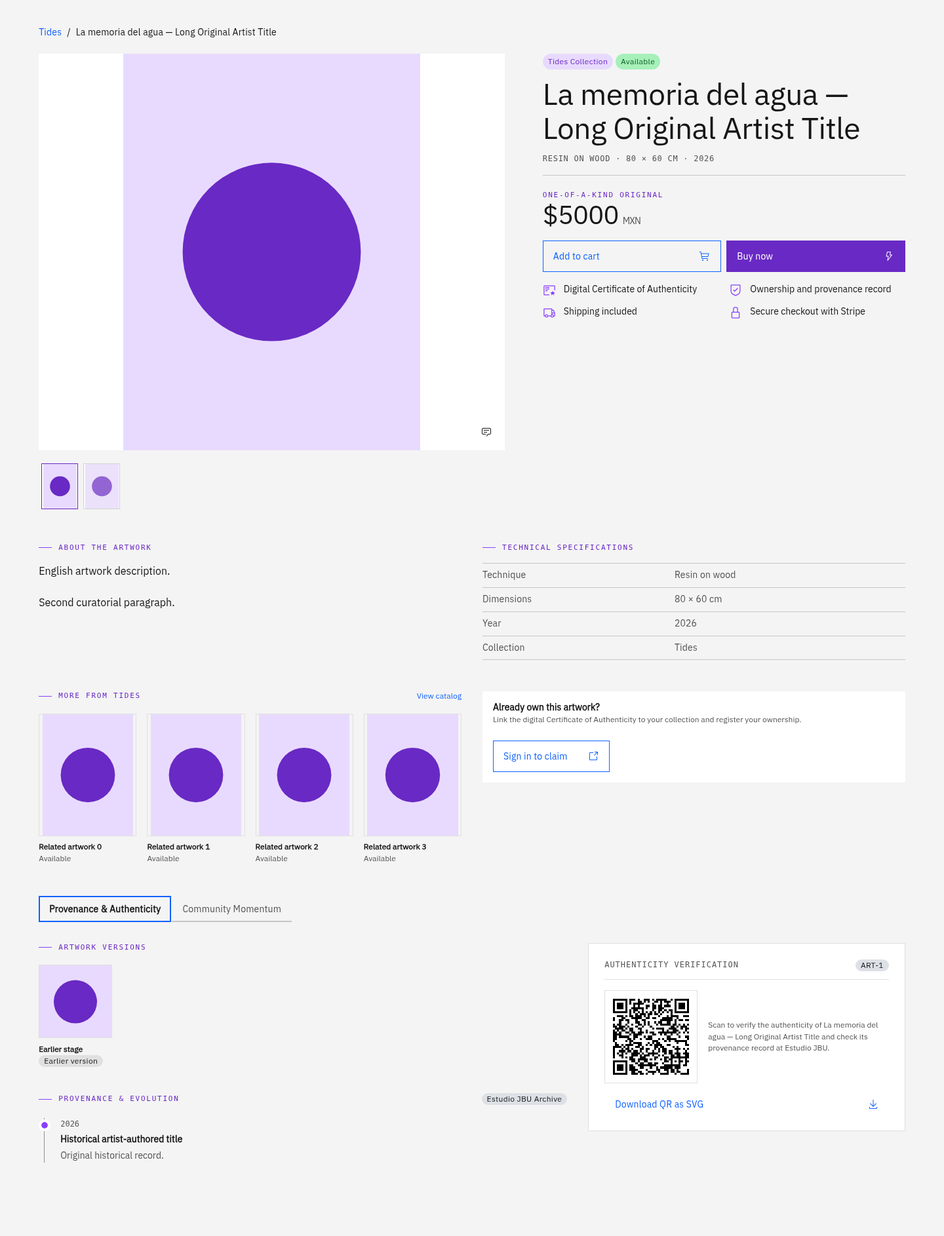
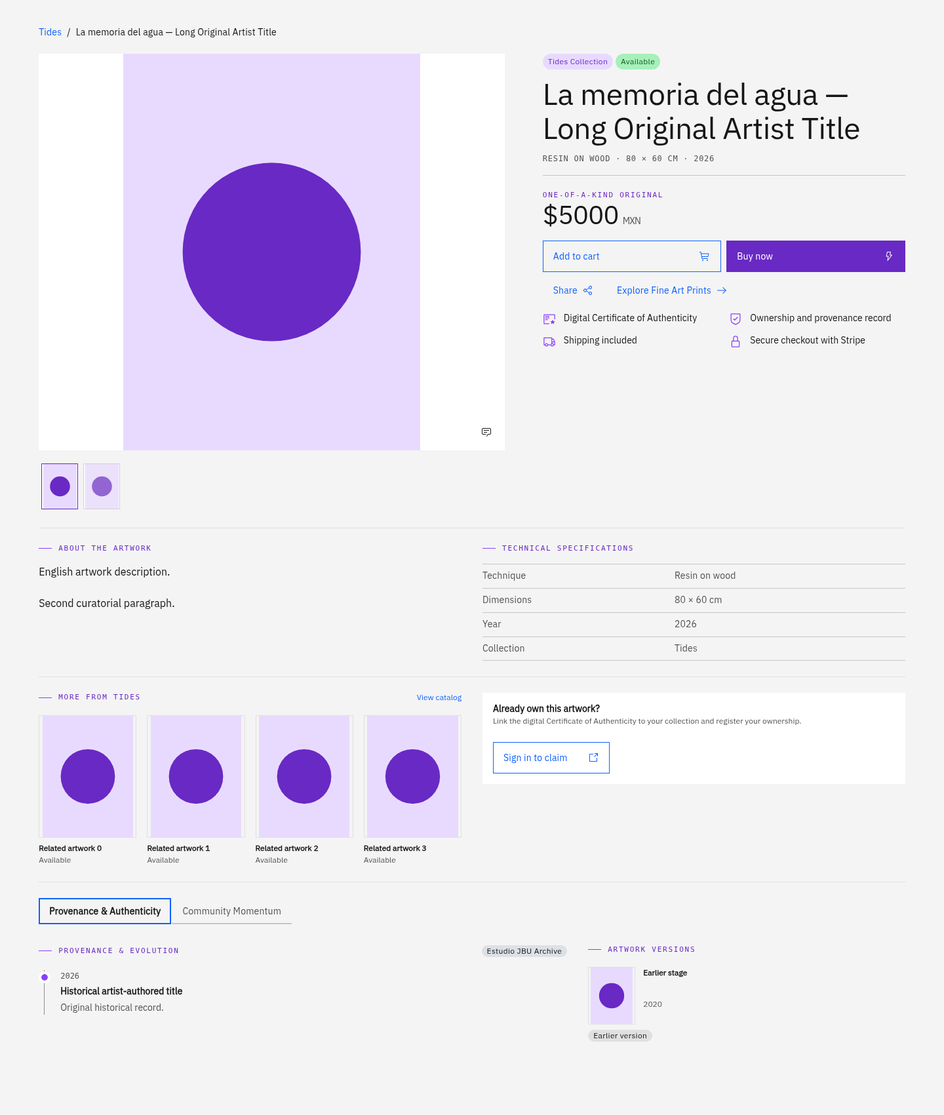
Restore artwork sharing and prints, replace QR panel with public versions

diff --git a/app/artwork/[sku]/ArtworkDetailClient.tsx b/app/artwork/[sku]/ArtworkDetailClient.tsx
@@ -35,7 +35,8 @@ import { supabase } from '@/lib/supabaseClient'
 import { getArtworks } from '@/lib/artworks'
 import { ARTWORK_PLACEHOLDER, handleArtworkImageError } from '@/lib/artworkPlaceholder'
 import OptimizedImg from '@/components/media/OptimizedImg'
-import ArtworkQR from '@/components/ArtworkQR'
+import ArtworkShare from '@/components/share/ArtworkShare'
+import { relatedPublicArtworkVersions } from '@/lib/artworkDetailPresentation'
 import BuyButton from '@/components/BuyButton'
 import AskForPriceButton from '@/components/AskForPriceButton'
 import { getArtworkCommercePresentation } from '@/lib/artworkCommerce'
@@ -73,12 +74,13 @@ interface ArtworkDetailClientProps {
   artwork: any
   commentsEnabled?: boolean
   country?: string | null
+  printCountries?: string[]
   siteSettings?: any
   social?: { config: object; presentation: { title: string; artist: string; description: string; domain: string }; version: string; titleEn: string } | null
 }
 
 
-export default function ArtworkDetailClient({ artwork, siteSettings = null, country = null, commentsEnabled = false }: ArtworkDetailClientProps) {
+export default function ArtworkDetailClient({ artwork, siteSettings = null, social = null, printCountries = [], country = null, commentsEnabled = false }: ArtworkDetailClientProps) {
   const market = useMarket()
   const params = useSearchParams()
   const destination = browsingCountry(params.get('country'), market.country || country)
@@ -232,6 +234,15 @@ export default function ArtworkDetailClient({ artwork, siteSettings = null, coun
 
   const soldUniqueOriginal = isSold && !isPhysicalLimited
   const variants = artwork.artwork_prints || []
+  const versions = relatedPublicArtworkVersions(artwork)
+  const hasPublicPrints = printCountries.length > 0 && (!destination || printCountries.includes(destination))
+  const secondaryActions = <div className={styles.secondaryActions}>
+    <ArtworkShare artworkId={artwork.id} sku={artwork.sku} title={artwork.title} social={social} />
+    {hasPublicPrints && <Button as={Link} kind="ghost" size="sm" renderIcon={ArrowRight}
+      href={artworkPrintHref(artwork.sku,{country:destination})}>
+      {t('Explorar Fine Art Prints','Explore Fine Art Prints')}
+    </Button>}
+  </div>
   const [selectedDiscussion, selectDiscussion] = useState<{ kind: string; ref: string } | null>(null)
   const linkedDiscussion = parseDiscussion(params.get('discussion'))
   const discussion = commentsEnabled ? selectedDiscussion || linkedDiscussion : null
@@ -368,34 +379,6 @@ export default function ArtworkDetailClient({ artwork, siteSettings = null, coun
   )
   const artworkHistory = (
     <div id="artwork-provenance" className={styles.history}>
-      {!!artwork.version_family?.length && (
-        <section id="artwork-versions" className={styles.block}>
-          <div className={styles.blockHead}>
-            <h2 className={styles.sectionLabel}>{t('Versiones de la obra', 'Artwork versions')}</h2>
-          </div>
-          <div className={styles.seriesStrip}>
-            {artwork.version_family.filter((row: any) => row.id !== artwork.id).map((row: any) => {
-              const label = t(row.title, row.title_en || row.title)
-              const parent = artwork.version_family.find((entry: any) => entry.id === row.version_parent_id)
-              const path = `/artwork/${encodeURIComponent(row.sku)}`
-              return <article key={row.id} className={styles.seriesCard}>
-                <Link href={path}>
-                  <div className={styles.seriesThumb}>
-                    <OptimizedImg src={formatImgSrc(row.primary_image_url)} alt={label} variant="thumbnail" sizes="200px" />
-                  </div>
-                  <p className={styles.seriesTitle}>{label}</p>
-                </Link>
-                <Tag size="sm" type={row.is_historical_version ? 'gray' : 'purple'}>
-                  {row.is_historical_version ? t('Versión anterior', 'Earlier version') : t('Versión actual', 'Current version')}
-                </Tag>
-                {parent && <p className={styles.seriesPrice}>{t('Deriva de', 'Derived from')} {t(parent.title, parent.title_en || parent.title)}</p>}
-                {row.allows_prints && <Link href={artworkPrintHref(row.sku, { country: destination })}>{t('Ver prints', 'View prints')}</Link>}
-              </article>
-            })}
-          </div>
-        </section>
-      )}
-
       {/* Proveniencia */}
       <section className={styles.block}>
         <div className={styles.blockHead}>
@@ -468,6 +451,37 @@ export default function ArtworkDetailClient({ artwork, siteSettings = null, coun
       </section>
     </div>
   )
+  const artworkVersions = <div className={styles.artworkVersions}>
+      {versions.length > 0 && (
+        <section id="artwork-versions" className={styles.block}>
+          <div className={styles.blockHead}>
+            <h2 className={styles.sectionLabel}>{t('Versiones de la obra', 'Artwork Versions')}</h2>
+          </div>
+          <div className={styles.versionList}>
+            {versions.map((row: any) => {
+              const label = t(row.title, row.title_en || row.title)
+              const parent = row.version_parent_id === artwork.id ? artwork : versions.find((entry: {id: string; title: string; title_en?: string}) => entry.id === row.version_parent_id)
+              const path = `/artwork/${encodeURIComponent(row.sku)}`
+              return <article key={row.id} className={styles.seriesCard}>
+                <Link href={path}>
+                  <div className={styles.seriesThumb}>
+                    <OptimizedImg src={formatImgSrc(row.primary_image_url)} alt={label} variant="thumbnail" sizes="200px" />
+                  </div>
+                  <p className={styles.seriesTitle}>{label}</p>
+                  {row.year && <p className={styles.seriesPrice}>{row.year}</p>}
+                </Link>
+                <Tag size="sm" type={row.is_historical_version ? 'gray' : 'purple'}>
+                  {row.is_historical_version ? t('Versión anterior', 'Earlier version') : t('Versión actual', 'Current version')}
+                </Tag>
+                {parent && <p className={styles.seriesPrice}>{t('Deriva de', 'Derived from')} {t(parent.title, parent.title_en || parent.title)}</p>}
+                {row.allows_prints && <Link href={artworkPrintHref(row.sku, { country: destination })}>{t('Ver prints', 'View prints')}</Link>}
+              </article>
+            })}
+          </div>
+        </section>
+      )}
+
+  </div>
   const communityContent = (
     <>
       {/* Comunidad */}
@@ -499,7 +513,6 @@ export default function ArtworkDetailClient({ artwork, siteSettings = null, coun
 
     </>
   )
-  const registrationContent = !isPhysicalLimited && <ArtworkQR sku={artwork.sku} title={discussionTitle} heading={t('Verificación de autenticidad','Authenticity Verification')} />
   const ownershipContent = !isPhysicalLimited && (
       <Tile className={styles.claimBanner}>
         <div>
@@ -599,7 +612,7 @@ export default function ArtworkDetailClient({ artwork, siteSettings = null, coun
 
             {paymentError&&<InlineNotification kind="error" lowContrast hideCloseButton title={t('Pago pendiente','Payment pending')} subtitle={paymentError}/>}
             {payment?.source==='OFFER'&&<PendingPayment payment={payment} userId={user?.id} now={now} busy={paymentBusy} onPay={pay}/>}
-            {showAuction ? auctionPanel : (
+            {showAuction ? <>{auctionPanel}{secondaryActions}</> : (
             <section className={styles.purchase}>
               <span className={styles.priceLabel}>
                 {isPhysicalLimited ? editionDesignation(artwork.physical_edition_size, t) : t('Original única', 'One-of-a-kind original')}
@@ -660,6 +673,7 @@ export default function ArtworkDetailClient({ artwork, siteSettings = null, coun
                 </div>
               )}
 
+              {secondaryActions}
               {acceptsOffers && isOriginalAvailable && <Button kind="ghost" size="sm" renderIcon={TagEdit}
                 onClick={() => setIsOfferModalOpen(true)}>{t('Hacer una oferta','Make an offer')}</Button>}
 
@@ -679,7 +693,7 @@ export default function ArtworkDetailClient({ artwork, siteSettings = null, coun
           {ownershipContent}
         </div>}
         <ArtworkInformationTabs
-          provenance={<div className={styles.provenanceGrid}>{artworkHistory}<div id="artwork-registration">{registrationContent}</div></div>}
+          provenance={<div className={`${styles.provenanceGrid} ${!versions.length ? styles.provenanceFull : ''}`}>{artworkHistory}{versions.length > 0 && artworkVersions}</div>}
           community={communityContent} />
       </div>
 

diff --git a/app/artwork/[sku]/ArtworkDetailPage.jsx b/app/artwork/[sku]/ArtworkDetailPage.jsx
@@ -17,6 +17,7 @@ import { socialContext } from '@/lib/social/data.server'
 
 import { artworkJsonLd } from '@/lib/seo'
 import { getPublicPrintArtworks } from '@/lib/publicPrintDiscovery.server'
+import { legacyArtworkPrintCountries, commercialArtworkPrintCountries } from '@/lib/artworkDetailPresentation'
 import { isShareablePrint } from '@/lib/social/print'
 
 export const isVersionDraft = artwork => artwork?.version_kind === 'SUCCESSOR' && !artwork.version_published_at
@@ -183,7 +184,7 @@ export default async function ArtworkDetailPage({ sku, print, printPage = false,
   artwork.effective_shipping_countries=withShippingCountries(artwork,shippingConfig).effective_shipping_countries
   artwork.artwork_prints=(artwork.artwork_prints||[]).map(v=>withShippingCountries(v,shippingConfig,artwork))
 
-  const commercial = printPage
+  const commercial = (printPage || artwork.allows_prints)
     ? await loadFineArtVariants(db,shippingConfig,{ artworkIds:[artwork.id] }).then(rows=>rows.map(fineArtPublic)).catch(()=>[])
     : []
   if (printPage && commercial.length && !legacyPrint && !artwork.artwork_prints.some(isShareablePrint)) {
@@ -204,9 +205,16 @@ export default async function ArtworkDetailPage({ sku, print, printPage = false,
     siteSettings={siteSettings} commentsEnabled={commentsEnabled} legacy={legacyPrint} guestPrintCheckout={process.env.ENABLE_GUEST_OPEN_EDITION_CHECKOUT === 'true'} />
   </>
 
+  // Reuse the public storefront loader; send only eligible destinations to the
+  // artwork action, not provider/configuration/production data.
+  const legacyCountries=legacyArtworkPrintCountries(artwork)
+  const legacyPublic=legacyCountries.length ? await getPublicPrintArtworks([artwork.id])
+    .then(rows=>rows.some(row=>row.id===artwork.id)).catch(()=>false) : false
+  const printCountries=[...new Set([...commercialArtworkPrintCountries(commercial),...(legacyPublic ? legacyCountries : [])])]
+
   return <>
     <script type="application/ld+json" dangerouslySetInnerHTML={{ __html: JSON.stringify(artworkJsonLd(artwork)).replace(/</g, '\\u003c') }} />
-    <ArtworkDetailClient key={sku} country={country} artwork={artwork} siteSettings={siteSettings} commentsEnabled={commentsEnabled}
+    <ArtworkDetailClient key={sku} printCountries={printCountries} country={country} artwork={artwork} siteSettings={siteSettings} commentsEnabled={commentsEnabled}
       social={social ? { ...social, titleEn: artwork.title_en || '' } : null} />
   </>
 }

diff --git a/lib/artworkDetailPresentation.test.js b/lib/artworkDetailPresentation.test.js
@@ -1,0 +1,32 @@
+import { test } from 'node:test'
+import assert from 'node:assert/strict'
+import { relatedPublicArtworkVersions, legacyArtworkPrintCountries, commercialArtworkPrintCountries } from './artworkDetailPresentation.js'
+
+test('version presentation retains public RPC order, deduplicates and never walks cycles',()=>{
+ const historical={id:'past',sku:'PAST',version_parent_id:'current',is_historical_version:true}
+ const published={id:'future',sku:'FUTURE',version_kind:'SUCCESSOR',version_published_at:'2026-01-01',version_parent_id:'past'}
+ const result=relatedPublicArtworkVersions({id:'current',version_family:[historical,historical,{id:'current',sku:'CURRENT'},
+  {id:'private',sku:'PRIVATE',status:'DRAFT'},{id:'draft',sku:'DRAFT',version_kind:'SUCCESSOR'},published]})
+ assert.deepEqual(result,[historical,published])
+ assert.deepEqual(relatedPublicArtworkVersions({id:'current'}),[])
+})
+
+test('legacy print destinations preserve opt-in, activity, price, edition and managed-fallback rules',()=>{
+ const variant={id:'print',is_active:true,price:100,edition_type:'OPEN',effective_shipping_countries:['MX']}
+ const art={allows_prints:true,effective_shipping_countries:['MX','US'],artwork_prints:[variant]}
+ assert.deepEqual(legacyArtworkPrintCountries(art),['MX'])
+ for(const change of [{is_active:false},{is_available:false},{price:0},{edition_type:'LIMITED',max_edition_size:2,prints_sold:2}]){
+  assert.deepEqual(legacyArtworkPrintCountries({...art,artwork_prints:[{...variant,...change}]}),[])
+ }
+ assert.deepEqual(legacyArtworkPrintCountries({...art,allows_prints:false}),[])
+ const old={...art,artwork_prints:[],print_price_mxn:100,print_type:'OPEN'}
+ assert.deepEqual(legacyArtworkPrintCountries(old),['MX','US'])
+ assert.deepEqual(legacyArtworkPrintCountries({...old,has_managed_prints:true}),[])
+})
+
+test('commercial destinations require existing active storefront prices for each country',()=>{
+ const variant={id:'variant',countries:['MX','US'],priceBooks:[{id:'book',country:'MX',currency:'MXN',status:'active',channel:'storefront',priority:0}],
+  entries:[{product_variant_id:'variant',price_book_id:'book',amount_minor:50000,status:'active'}]}
+ assert.deepEqual(commercialArtworkPrintCountries([variant]),['MX'])
+ assert.deepEqual(commercialArtworkPrintCountries([{...variant,entries:[]}]),[])
+})

diff --git a/tests/fixtures/artworkPrintStability.jsx b/tests/fixtures/artworkPrintStability.jsx
@@ -60,7 +60,7 @@ fixture.detailArt={...art,title:'La memoria del agua — Long Original Artist Ti
   secondary_images:['/art-2.svg'],effective_shipping_countries:['MX','US'],allowed_shipping_countries:['MX','US'],physical_edition_type:window.fixtureEdition?'LIMITED_EDITION':'UNIQUE',
   physical_edition_size:20,physical_edition_sales_enabled:true,
   provenance_events:[{id:'event',event_type:'CREATED',event_date:'2026',title:'Historical artist-authored title',description:'Original historical record.',created_at:'2026-01-01',images:[]}],
-  version_family:[{id:'prior',sku:'PRIOR',title:'Etapa anterior',title_en:'Earlier stage',is_historical_version:true,primary_image_url:'/art.svg'}]}
+  version_family:window.fixtureVersions || [{id:'prior',sku:'PRIOR',title:'Etapa anterior',title_en:'Earlier stage',year:2020,is_historical_version:true,primary_image_url:'/art.svg'}]}
 fixture.db=table=>{
   fixture.dbReads=(fixture.dbReads||[]).concat(table)
   const data=table==='series'?[{title:'Tides',title_en:'Tides',title_es:'Mareas'}]:table==='artwork_images'?[]:[]
@@ -79,7 +79,7 @@ function View(){
   const params=new URLSearchParams(location.search)
   return <Theme theme={dark?'g100':'g10'}>
     <div style={{maxWidth:1440,margin:'auto',padding:'1rem'}}>
-      {params.get('screen')==='detail'?<ArtworkDetailClient artwork={fixture.detailArt} commentsEnabled/>:params.get('screen')==='manager'?<Products/>:<UnifiedStudio/>}
+      {params.get('screen')==='detail'?<ArtworkDetailClient printCountries={window.fixturePrintCountries} artwork={fixture.detailArt} commentsEnabled/>:params.get('screen')==='manager'?<Products/>:<UnifiedStudio/>}
     </div>
   </Theme>
 }

diff --git a/lib/artworkDetailPresentation.js b/lib/artworkDetailPresentation.js
@@ -1,0 +1,29 @@
+import { isPurchasablePrintVariant } from './catalogPrintAvailability.js'
+import { fineArtCurrencies, marketVariant } from './productCatalog/commerce.js'
+
+// Consume only the existing public_artwork_versions projection. Never traverse
+// raw artworks or infer versions from products/collection membership here.
+export function relatedPublicArtworkVersions(artwork) {
+  const seen = new Set([artwork.id])
+  return (artwork.version_family || []).filter(row => {
+    if (!row.id || !row.sku || seen.has(row.id) || row.status === 'DRAFT' ||
+      (row.version_kind === 'SUCCESSOR' && !row.version_published_at)) return false
+    seen.add(row.id)
+    return true
+  })
+}
+
+export function legacyArtworkPrintCountries(artwork) {
+  if (!artwork.allows_prints) return []
+  const variants=artwork.artwork_prints || []
+  const active=variants.filter(isPurchasablePrintVariant).flatMap(row=>row.effective_shipping_countries || [])
+  const limited=['LIMITED','LIMITADA'].includes(String(artwork.print_type || '').toUpperCase())
+  const legacy=!variants.length && !artwork.has_managed_prints && Number(artwork.print_price_mxn)>0 &&
+    (!limited || Number(artwork.prints_sold || 0)<Number(artwork.print_edition_size || 0))
+  return [...new Set([...active,...(legacy ? artwork.effective_shipping_countries || [] : [])])]
+}
+
+export function commercialArtworkPrintCountries(variants) {
+  return [...new Set(variants.flatMap(row=>row.countries.filter(country=>
+    fineArtCurrencies.some(currency=>marketVariant(row,country,currency)))))]
+}

diff --git a/app/artwork/[sku]/ArtworkDetail.module.css b/app/artwork/[sku]/ArtworkDetail.module.css
@@ -677,3 +677,17 @@
 }
 
 .buttonRow > :only-child { grid-column: 1 / -1; }
+
+/* Final refinements retain the approved composition. */
+.secondaryActions { display: flex; flex-wrap: wrap; align-items: center; gap: var(--cds-spacing-02, .25rem); margin-top: var(--cds-spacing-04, .75rem); }
+.secondaryActions :global(.cds--btn) { max-width: 100%; white-space: normal; }
+.detailsGrid, .relatedOwnership, .informationTabs { margin-top: var(--cds-spacing-06, 1.5rem); border-top: 1px solid var(--cds-border-subtle-01); padding-top: var(--cds-spacing-06, 1.5rem); }
+.versionList { display: grid; gap: var(--cds-spacing-05, 1rem); }
+.versionList .seriesCard { width: auto; min-width: 0; }
+.versionList .seriesCard > a:first-child { display: grid; grid-template-columns: 4.5rem minmax(0, 1fr); column-gap: var(--cds-spacing-04, .75rem); align-items: start; }
+.versionList .seriesThumb { grid-row: span 2; width: 4.5rem; height: 5.5rem; }
+.versionList .seriesThumb img { object-fit: contain; }
+.versionList .seriesTitle { white-space: normal; overflow-wrap: anywhere; }
+.artworkVersions { min-width: 0; }
+.artworkVersions .block { padding-top: 0; border: 0; }
+.provenanceFull { grid-template-columns: minmax(0, 1fr); }

diff --git a/docs/qa/artwork-editorial-tabs/README.md b/docs/qa/artwork-editorial-tabs/README.md
@@ -1,63 +1,62 @@
-# Artwork Detail — approved wireframe
+# Artwork Detail — approved composition and final refinements
 
-## Composition
+## Final page order
 
-The page follows this order on desktop and mobile:
+Collection/current-artwork breadcrumb → static 9/7 gallery/purchase hero → always-visible About and Technical Specifications → related artworks with ownership claim → exactly two final tabs, Provenance & Authenticity and Community Momentum. No independent content section follows the tabs. Mobile stacks these same sections without adding navigation patterns.
 
-1. Collection/current-artwork breadcrumb; no Gallery or Catalog levels.
-2. Hero: 9/16 media gallery and 7/16 purchase panel from 1024px, stacking below it. The purchase panel remains in normal flow at every viewport height. Horizontal thumbnails follow the viewer on mobile and desktop. The localized image-comment icon stays inside the viewer with the selected-image context, separate from zoom/navigation.
-3. Always-visible About the Artwork and Technical Specifications, with balanced columns from 768px and a Carbon Structured List. Description paragraph formatting, localized authored content and configured technique/dimensions/year/collection remain intact.
-4. Related artworks and ownership Tile, side by side from 768px and stacked in that order on mobile. Related cards are compact and occupy standard grid columns even with one item; existing pagination/catalog navigation remains. The claim copy matches the approved ES/EN text, with the existing authenticated claim action or anonymous sign-in destination.
-5. Exactly two final Carbon line tabs: Provenance & Authenticity (default) and Community Momentum. No independent page section follows them.
+The hero keeps horizontal thumbnails and the selected-image comment icon. Its purchase hierarchy is collection/availability, title, technical summary, divider, artwork type, price/currency, cart/Buy now, compact Share/Explore Fine Art Prints actions, then conditional trust benefits. Favorites, view counters and artwork-level comments remain absent. The purchase panel never becomes sticky/fixed.
 
-The purchase hierarchy is collection/availability, title, concise technical metadata, divider, artwork type, price/currency, cart/Buy now row and conditional two-column trust benefits. The page excludes view/favorite counts, favorite/share actions, artwork-level comment action and Explore Fine Art Prints. These actions are not relocated. Existing conditional auction, accepted-payment, offer, inquiry and local-delivery controls remain within the commerce area; the floating auction bar is removed.
+## Four refinements
 
-The first tab retains the existing versions and chronologically ordered provenance records beside the existing QR in 10/6 proportions. The verification heading is localized; QR content/destination and SVG download behavior are unchanged. The second tab retains tier/progress/valuation and contribution options in 6/10 proportions, with the existing leaderboard below. Community mounts on first visit and stays mounted on later visits to preserve interaction state and avoid repeated leaderboard reads.
+1. **Share:** reuses `ArtworkShare` as its existing labeled Ghost button and Share icon. The original social context is passed through, preserving canonical artwork URL, localized metadata, native sharing and copy/channel fallbacks. No new sharing service or analytics source is introduced.
+2. **Prints:** uses the existing `artworkPrintHref` artwork-specific route, retaining destination filtering. The server reuses `loadFineArtVariants` for published products, verified public imagery, active prices and eligible destinations, and the existing anonymous `getPublicPrintArtworks` projection for legacy publication/lineage eligibility. Only eligible countries are passed to the artwork client; provider/configuration data is not added to its payload. Disabled, inactive, unavailable, sold-out, unpriced or unpublished prints do not create the action. The legacy price fallback is retained only where the existing route supports it. The reads occur on the server, not when switching tabs.
+3. **Versions:** the provenance timeline stays on the left. Compact version rows replace the QR Tile on the right, using only the existing `public_artwork_versions` family already loaded on the server. Rows retain projected relationship order, thumbnail, localized title, optional year and supported predecessor/current-version information. The current artwork and duplicates are excluded; explicit draft/unpublished successor records are rejected. There is no recursive client traversal or inference from products/collections. Without eligible versions, no card/message/placeholder renders and the timeline spans the full width. The public RPC remains the visibility authority; existing database regression tests cover its RLS and version-publication behavior. The current RPC does not include a year field, so no year is invented or fetched separately when it is absent.
+4. **Dividers:** the three major section boundaries use one 1px `--cds-border-subtle-01` border each. Existing total section spacing is split between margin/padding, retaining alignment and avoiding extra boxes or decorative elements.
 
-## Affected components
+The QR component, certificate data, QR services/download implementation, verification routes and ownership registration remain in the repository and are unchanged by these refinements. The Hero certificate trust benefit remains. Existing conditional auction, pending-payment, offer, inquiry and local-delivery controls remain in the commerce area.
 
-- `app/artwork/[sku]/ArtworkDetailClient.tsx`: section order, breadcrumb, visible description/specifications, related/claim grouping, approved purchase hierarchy and excluded page controls. Consent-gated view analytics remain; local favorites UI/query/handler are removed, while records and shared favorites/share/print/comment services remain untouched.
-- `app/artwork/[sku]/ArtworkDetail.module.css`: static purchase panel, content-sized paired sections, responsive card widths and two-column trust benefits. The sticky hook is removed.
-- `components/ArtworkInformationTabs.jsx`: exactly two Carbon tabs, with Carbon keyboard/ARIA behavior, stable content identities and hash/Back/Forward support. Routine selection replaces history while preserving query parameters and Next.js state. Provenance/authenticity/community aliases remain available. Description is normal visible content at `#details`.
-- `components/ArtworkQR.jsx`: optional localized verification heading, reusing the existing QR implementation.
-- `components/media/MediaGallery.module.css`: artwork-only editorial thumbnails remain horizontal and visible on mobile. Shared gallery zoom, video, swipe, navigation and image discussion handlers are preserved.
-- `tests/artworkPrintStability.browser.mjs`: approved composition, exclusions, two-tab behavior and updated regression assertions.
+## Modified implementation
 
-No database schema, relationships, print creation/provider integrations, inventory/reservation, currency/country, payment, certificate, claim authorization or historical data changes.
+- `ArtworkDetailClient.tsx`: Share/Prints actions, destination availability, versions alongside provenance, QR presentation removal.
+- `ArtworkDetailPage.jsx`: server-only public print availability using the existing storefront/publication loaders and a narrow country projection.
+- `ArtworkDetail.module.css`: compact actions/version rows, conditional full-width provenance and Carbon dividers.
+- `lib/artworkDetailPresentation.js`: small presentation helpers for deduplication and existing print/price eligibility. No database model is introduced.
+- Focused unit/browser fixtures and assertions, plus the captures below.
 
-## Verification
+No schema, product/provider creation, inventory/reservation, checkout, currency conversion, certificate/claim, authentication or historical-record changes. Existing Product Studio and provider workflows remain intact.
 
-- **16 browser tests passed**, including both tabs at 375/768/1024/1440/1920px in light/English and dark/Spanish (20 panel/viewport/theme combinations).
-- The approval test asserts collection-only breadcrumb, 9/7 hero, horizontal mobile thumbnails, always-visible description/specifications, related/claim before tabs, exactly two information tabs, no sections after tabs, excluded controls absent, and normal-flow purchase behavior.
-- Other browser checks cover gallery/zoom/image discussion, direct links, keyboard/ARIA relationships, Back/Forward, community identity/state/read counts, unchanged contribution amounts and checkout payloads, zero/one/six related cards, pagination, country availability, cart/checkout sign-in, authenticated claim and Limited Edition guards. Existing Product Studio typing/caret/draft/save/reopen/Gelato/Prodigi regressions also pass.
-- **69 unit tests passed** across currency, country/shipping, physical edition, artwork commerce/discussion and product catalog/commerce adapters.
-- `npx tsc --noEmit`: passed.
-- Production Webpack build: passed with placeholder backend credentials and the existing local font fixture. Public lookup warnings are expected with the placeholder backend.
-- Relevant lint still reports pre-existing diagnostics: the detail component/gallery together have 30 errors and 6 warnings, reduced from 34 errors and 7 warnings before this revision. New tabs/QR and test code lint cleanly. Repository-wide lint remains blocked by 114 errors and 91 warnings in existing code (previously 118 errors and 92 warnings).
+## Validation
 
-Commands:
+Browser suite: **18 regression cases passed**, including both tabs at 375/768/1024/1440/1920px in light/English and dark/Spanish. Assertions cover the approved section order, final two tabs, normal-flow purchase panel, visible descriptions/specifications, mobile thumbnails, compact related cards, ownership and the removed controls. Additional checks cover:
+
+- Canonical native/copy sharing and artwork-specific print links, including absence for ineligible destinations/no products.
+- Public/unique versions, no self/draft/unpublished successor rows, compact images, links and full-width timeline when empty.
+- Three Carbon 1px dividers; no QR download/panel on this page.
+- Gallery, zoom, image discussions, cart/checkout sign-in, country availability, authenticated claim and Limited Edition guards.
+- Keyboard/ARIA relationships, direct fragments and Back/Forward, community state and unchanged contribution payloads.
+- Existing Studio typing/caret/draft/save/reopen/cost/error/Gelato/Prodigi continuity.
+
+All **78 unit/database checks passed**: 69 existing public-business/catalog/commerce tests, three focused presentation tests and six version/publication/RLS database regressions. Type checking passed. New helpers, tests and server wiring lint cleanly. Repository-wide lint retains **112 errors / 91 warnings** in existing code (previously 114 / 91). Production Webpack build results are recorded in the PR.
 
 ```sh
 JBU_BROWSER_TOOLS=/path/to/browser-tools \
 JBU_CHROMIUM_PATH=/usr/bin/chromium \
 JBU_STABILITY_EVIDENCE=work/results.json \
 node --test tests/artworkPrintStability.browser.mjs
+node --test lib/artworkDetailPresentation.test.js lib/artworkVersions.database.test.js
 npx tsc --noEmit
 npm run lint
 npm run build
-node --test lib/currency.test.js lib/countryAvailability.test.js \
-  lib/shippingCountries.test.js lib/physicalEdition.test.js \
-  lib/artworkCommerce.test.js lib/artworkDiscussion.test.js \
-  lib/productCatalog/studioDiscovery.test.js lib/productCatalog/commerce.test.js \
-  lib/productCatalog/commerceCheckout.test.js lib/productCatalog/adapters.test.js
 ```
 
-## Review images and limits
+Build uses placeholder backend credentials and the existing local-font fixture; expected public-data lookup warnings do not block compilation. Existing repository lint diagnostics are reported separately from clean new helpers/test/server-wiring files.
 
-The application continues to render its existing artwork data and media. Test screenshots use synthetic fixture artwork/shipping data and do not replace application content:
+## Captures and limits
 
-- [Approved composition, light / English](hero-details.png)
-- [Approved composition, dark / Spanish](provenance-dark.png)
+The application uses its existing artwork data and media. Captures use synthetic fixture artwork/shipping/print-availability data:
+
+- [Final composition, light / English](hero-details.png)
+- [Provenance and versions, dark / Spanish](provenance-dark.png)
 - [Community as the final tab, light / English](community.png)
 
-Browser tests use actual React/Carbon components and application CSS with mocked IO boundaries. No live Stripe charge, provider API call, authenticated comment submission, real certificate claim or database mutation was performed. These credentialed flows still require staging acceptance. The fixture does not establish production web vitals.
+Browser tests use actual React/Carbon components and application CSS with mocked IO. No live Stripe charge, provider API call, authenticated comment submission, certificate claim or production database mutation was performed. Those credentialed flows still require staging acceptance. The fixture does not establish production web vitals.
